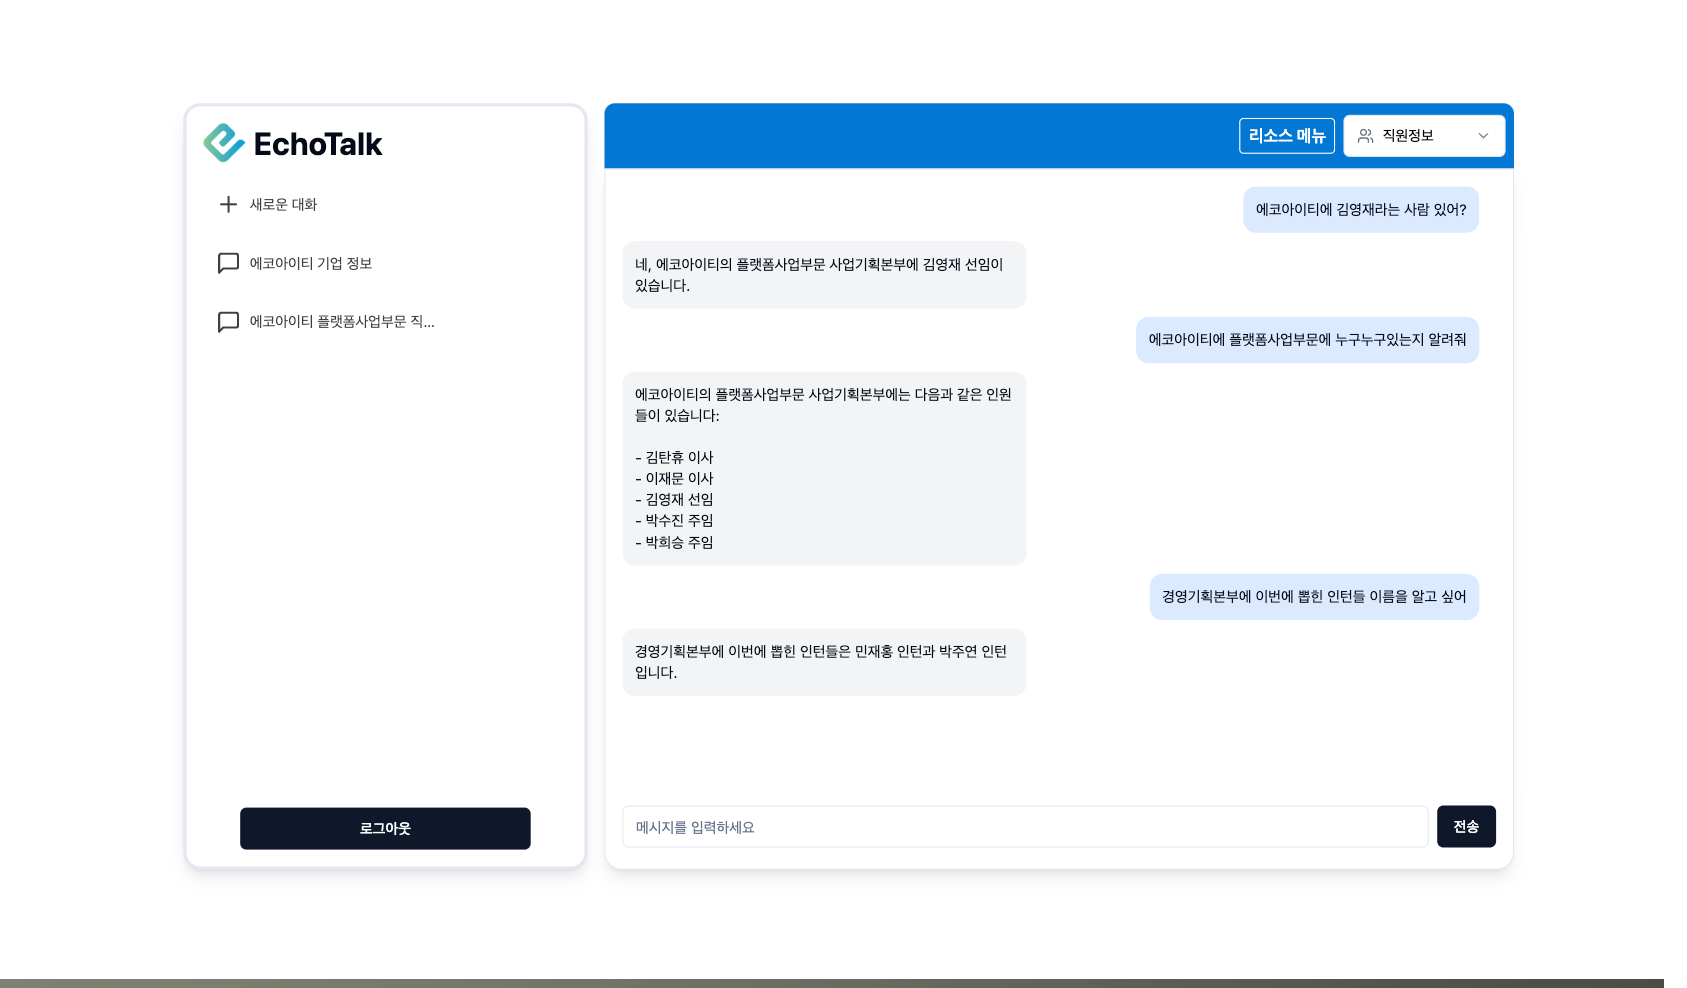
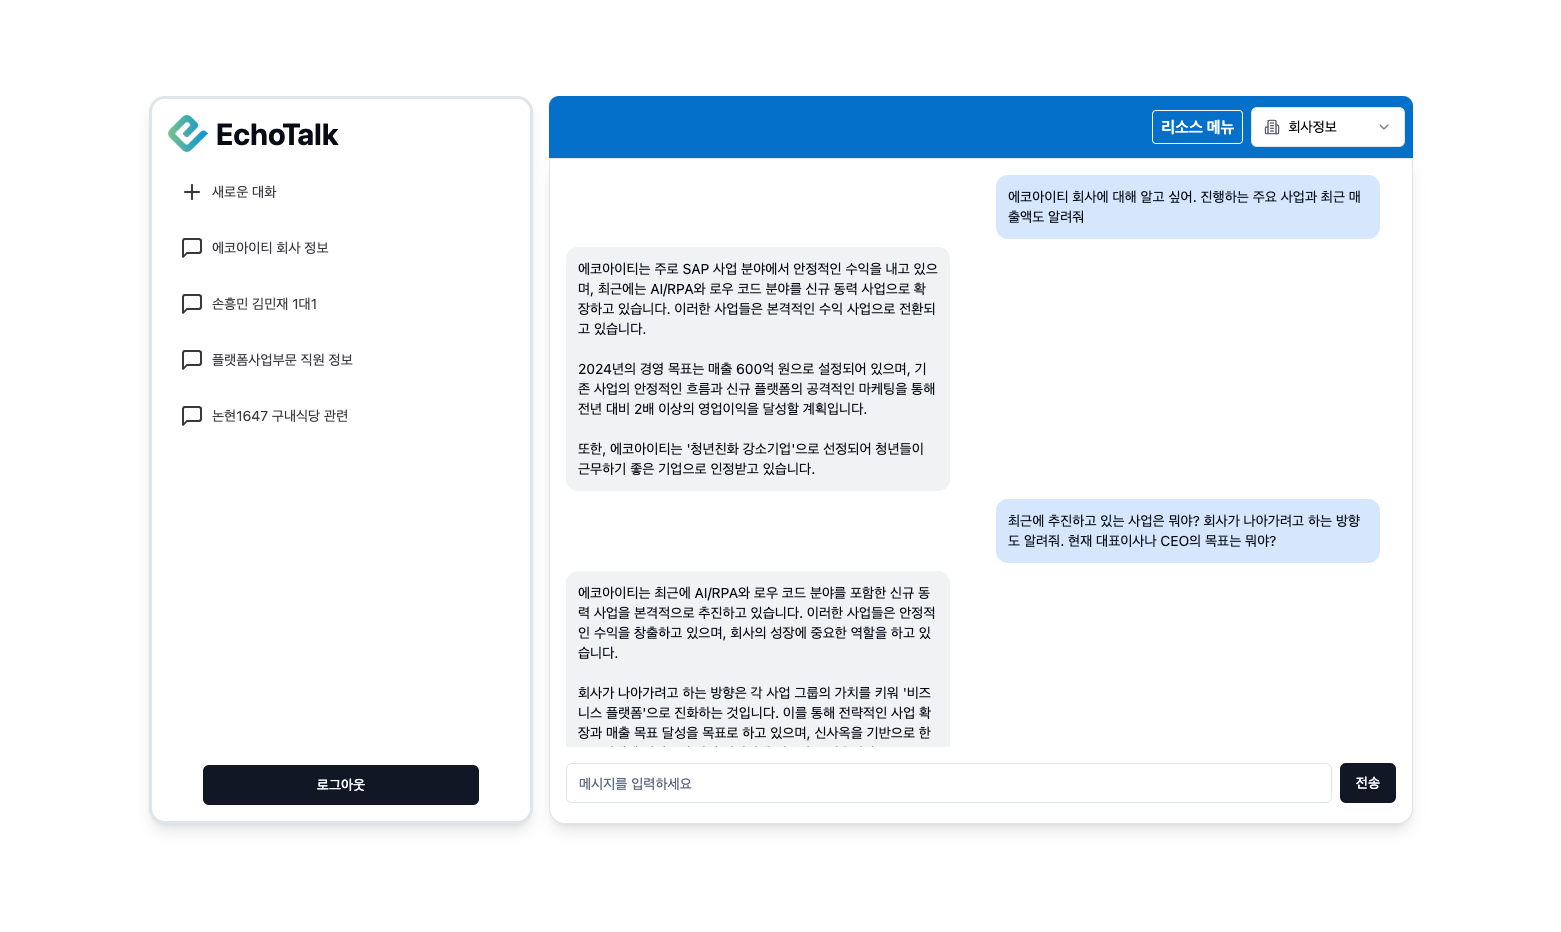
update: image for readme

diff --git a/README.md b/README.md
@@ -136,7 +136,7 @@ cd echotalk-client
 
 ![Chat2](./public/chat2.png)
 
-리소스 메뉴에서 “직원 정보”를 선택하면, Pinecone의 메타데이터 필터링을 통해 "employee" 태그가 포함된 문서만 대상으로 유사도 검색을 수행합니다. 사용자의 질문을 벡터로 임베딩한 후, 해당 주제의 문서 중 코사인 유사도가 높은 벡터를 추출하고 이를 OpenAI에 전달하여 질문의 의도와 맥락을 고려한 응답을 생성합니다.
+리소스 메뉴에서 “회사 정보”를 선택하면, Pinecone의 메타데이터 필터링을 통해 "employee" 태그가 포함된 문서만 대상으로 유사도 검색을 수행합니다. 사용자의 질문을 벡터로 임베딩한 후, 해당 주제의 문서 중 코사인 유사도가 높은 벡터를 추출하고 이를 OpenAI에 전달하여 질문의 의도와 맥락을 고려한 응답을 생성합니다.
 
 ### 5. 직원/부서 정보 관련 채팅
 
